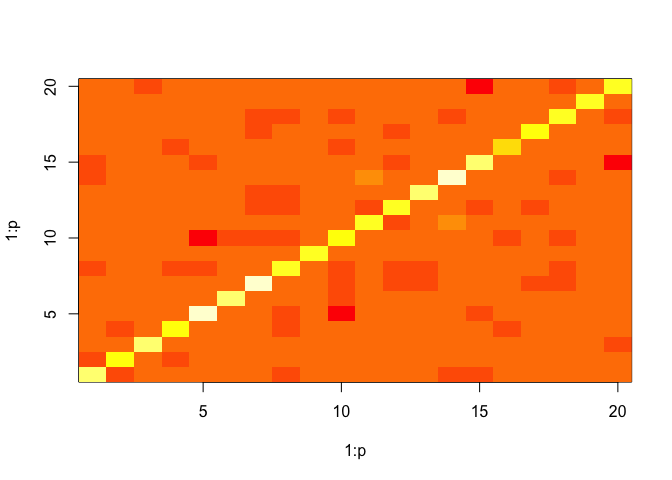
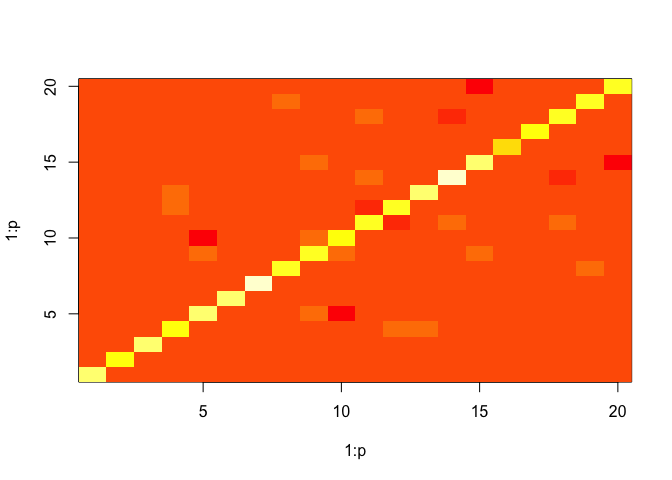
fix

diff --git a/README.md b/README.md
@@ -25,7 +25,7 @@ X_fore <- as.data.frame(rmvnorm(N_fore, Mu, Sigma))
 
 ```r
 library(CSAD)
-csad <- csad(X_back, X_fore, .3, .1)
+csad <- csad(X_back, X_fore)
 image(1:p, 1:p, csad$back)
 ```
 
